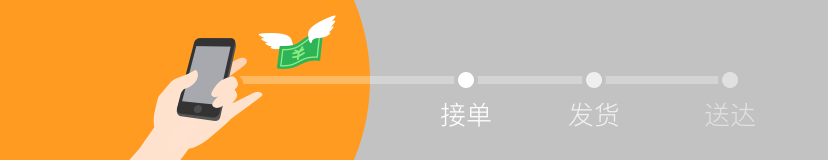
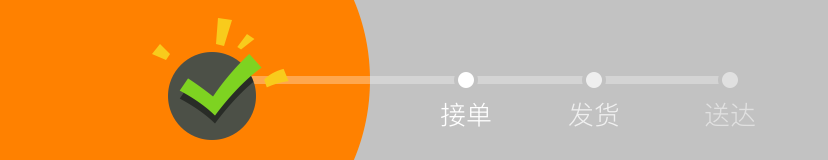
堂食订单详情

diff --git a/src/views/OrderDetail.vue b/src/views/OrderDetail.vue
@@ -1,16 +1,15 @@
 <template>
   <div class="order-detail-view">
-    <section class="shop">
-      <div class="l-r">
-        <h2 class="l_auto shopname">{{order.orderinfo.shop_name}}</h2>
-        <div class="num" v-show="order.orderinfo.address">{{order.orderinfo.address}}号桌</div>
-      </div>
-    </section>
     <section class="order_sn">
-      <div class="l-c-c order_sn_num"><span>取餐号</span>{{order.orderinfo.order_sn}}</div>
-      <p class="order_sn_text">请留意餐厅叫号，及时取餐哦～</p>
+      <h3><img src="../assets/icon-check.png" alt="">支付成功</h3>
+      <div class="order_sn_num"><span>取餐号</span><em>{{order.orderinfo.order_sn}}</em></div>
+      <p class="order_address" v-show="order.orderinfo.address">
+        <span>{{order.orderinfo.address}}号桌</span>
+      </p>
     </section>
[1 lines of base64/hex data omitted]
+    <section class="show_detail" :class="{'activate': hasDetail}" @click="hasDetail=!hasDetail">
[1 lines of base64/hex data omitted]
+    </section>
     <div v-show="hasDetail">
       <section class="order-content">
         <ul class="goods-list">
@@ -116,59 +115,63 @@
   .b-top {
     border-top: 2px solid #E5E5E5; /*px*/
   }
-  section {
+  .order-content {
     padding: 30px;
   }
 
   .order-detail-view {
     background-color: #F7F7F7;
+    padding-top: 64px;
     font-size: 30px;
-  }
-
-  .shop {
-    .shopname {
-      font-size: 34px;
-      color: #2F323A;
-    }
-    .num {
-      font-size: 30px;
-      color: #8A8C92;
-    }
   }
 
   .order_sn {
-    margin: 30px;
-    margin-top: 10px;
-    margin-bottom: 20px;
-    padding-top: 0;
-    background: #fff;
-    border: 2px solid #FE9B20; /*px*/
+    margin:0 30px 40px;
+    padding-bottom: 40px;
+    background-color: #fff;
     border-radius: 8px;
+    box-shadow: 0 4px 12px rgba(0, 0, 0, 0.1);
     text-align: center;
-    font-size: 30px;
     h3 {
+      position: relative;
+      padding-top: 0.9rem;
+      img {
+        width: 96px;
+        height: 96px;
+        display: block;
+        margin-bottom: 20px;
+        position: absolute;
+        left: 50%;
+        top: -48px;
+        margin-left: -48px;
+      }
       font-weight: normal;
-      line-height: 56px;
-      color: #9B9DA3;
-    }
-    p {
-      color: #2F323A;
+      color: #7ED321;
+      font-size: 36px;
     }
     .order_sn_num {
-      height: 188px;
-      font-size: 80px;
-      line-height: 56px;
+      padding: 40px 0;
+      span, em {
+        vertical-align: baseline;
+      }
       span {
         margin-right: 30px;
         font-size: 36px;
         color: #8A8C92;
+        vertical-align: 10%;
+      }
+      em {
+        font-size: 80px;
       }
     }
-    .order_sn_text {
-      /*margin-top: 20px;*/
-      padding-top: 30px;
-      border-top: 2px solid #FFDCB1; /*px*/
-      color: #FE9B20;
+    .order_address {
+      margin: 0 36px;
+      color: #8A8C92;
+      background: url('../assets/line--.svg') repeat-x center center;
+      span {
+        background-color: #fff;
+        padding: 0 30px;
+      }
     }
   }
 
@@ -236,28 +239,24 @@
     display: flex;
     justify-content: space-between;
     align-items: center;
-    border-top: 2px solid #E5E5E5;
     padding-top: 10px;
+    color: #2F323A;
     strong, span {
       display: block;
     }
     strong {
       font-weight: normal;
+      font-size: 34px;
     }
     span {
       font-size: 40px;
-      color: #FE9B20;
-      sub {
-        color: $aluminium;
-      }
     }
     text-align: right;
   }
   .note-item {
     margin-top: 36px;
-    background-color: #F7F7F7;
+    background-color: #EFEEED;
     padding: 24px 20px;
-    border-radius: 6px;
     color: $aluminium;
     em {
       color: $lightBlack;
@@ -265,8 +264,16 @@
   }
 
   .order-info {
+    padding: 0 30px;
     font-size: 26px;
     color: #8A8C92;
     background-color: transparent;
+    ul {
+      padding-top: 24px;
+      border-top: 2px solid #E5E5E5;
+    }
+    li {
+      line-height: 1.6;
+    }
   }
 </style>

diff --git a/src/pages/take-out/views/OrderDetail.vue b/src/pages/take-out/views/OrderDetail.vue
@@ -7,7 +7,7 @@
       <ul :style="backgroundObj">
         <li v-for="item in order.orderinfo.delivery_info.info">
           <p>{{item.ctime | formatTime('hh:mm')}}</p>
-          <p v-if="item.delivery_state==0">付款</p>
+          <p v-if="item.delivery_state==0">付款成功</p>
           <p v-if="item.delivery_state==1">接单</p>
           <p v-if="item.delivery_state==2">发货</p>
           <p v-if="item.delivery_state==3">送达</p>
